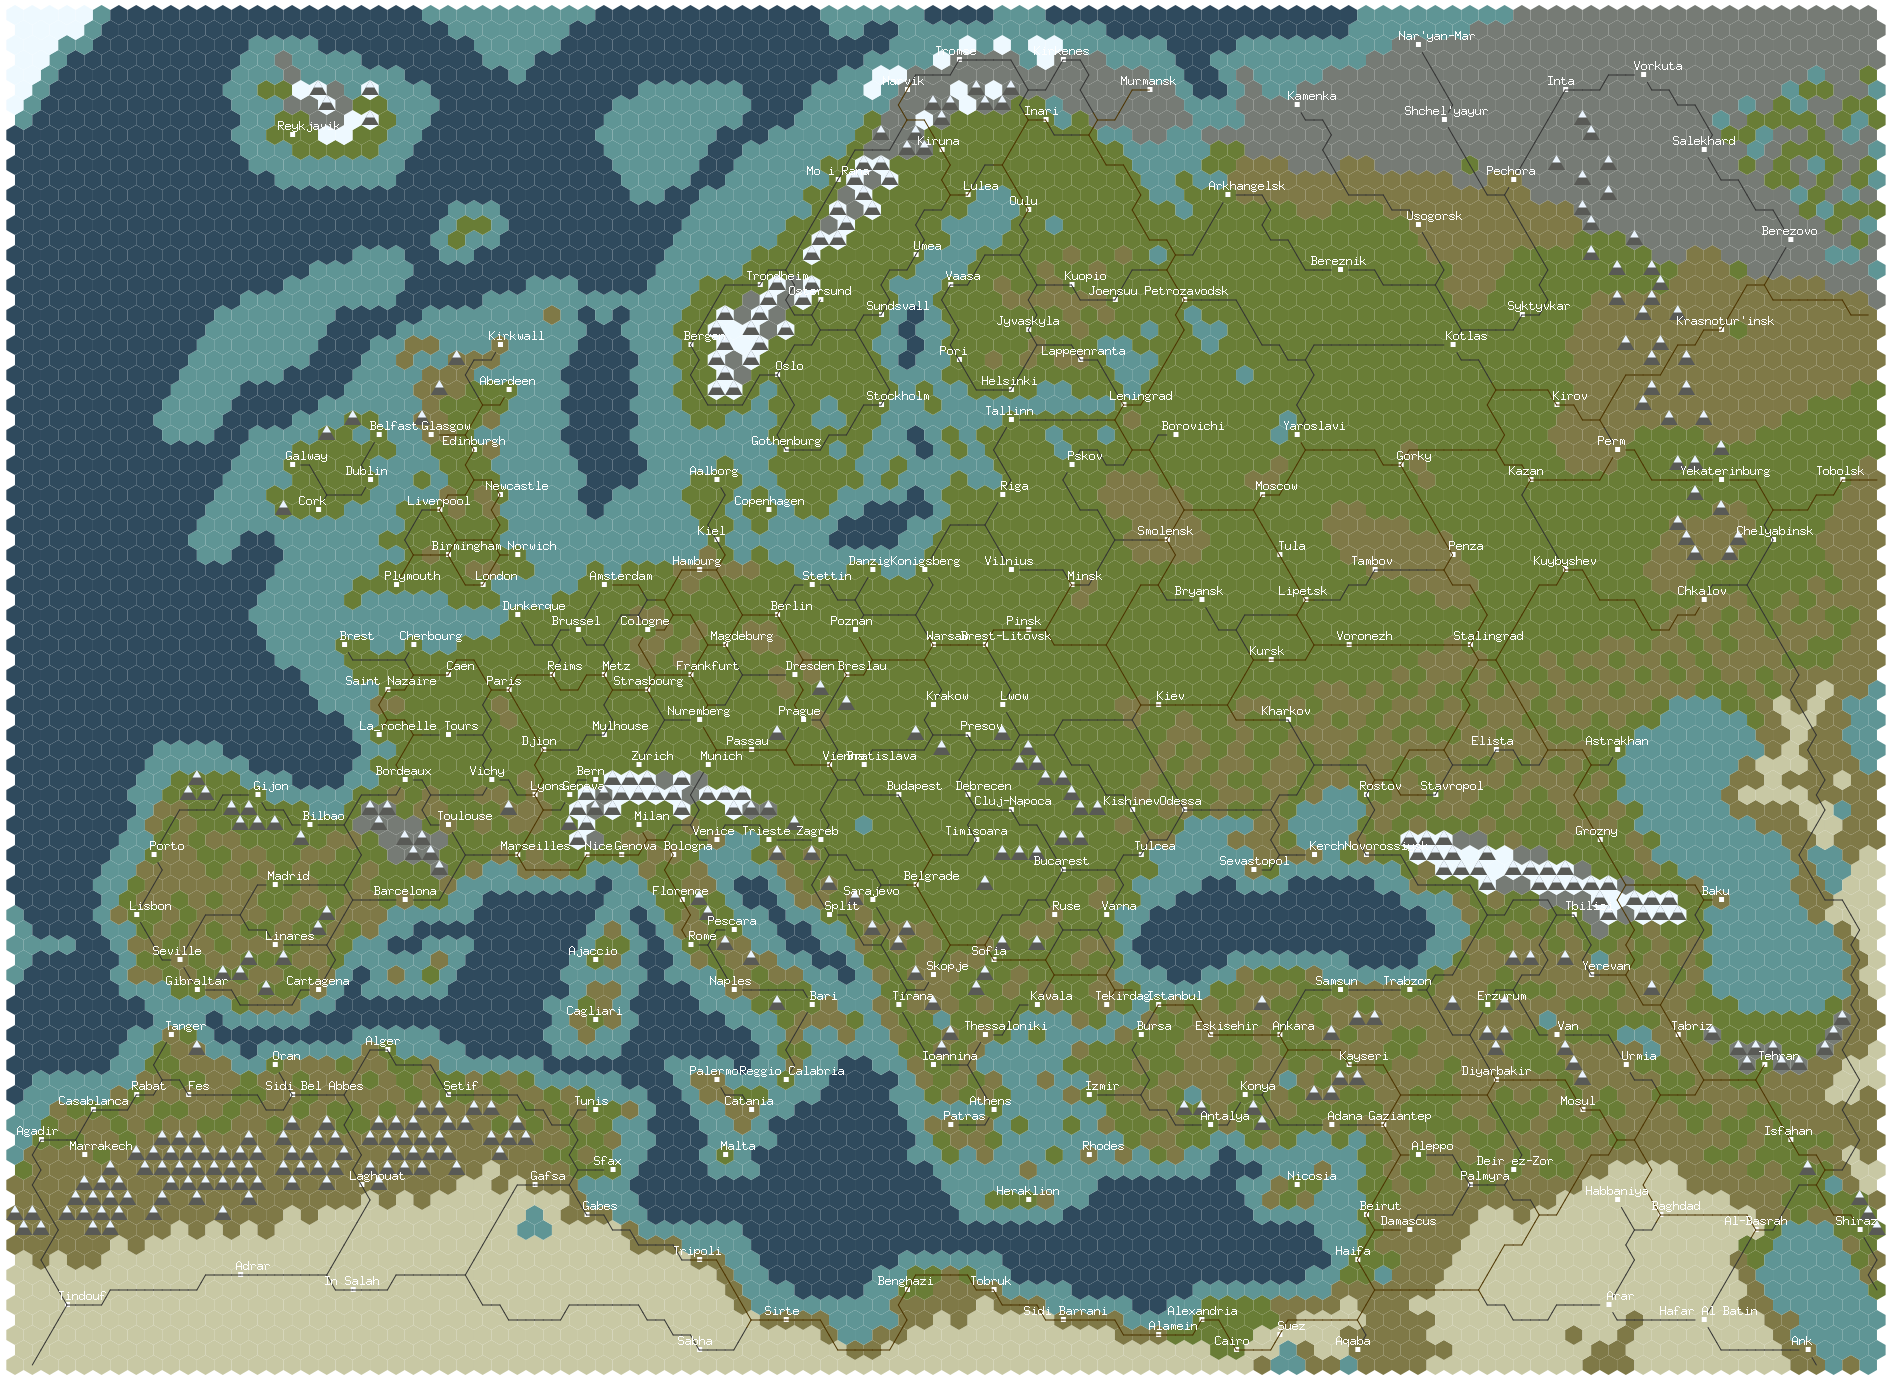
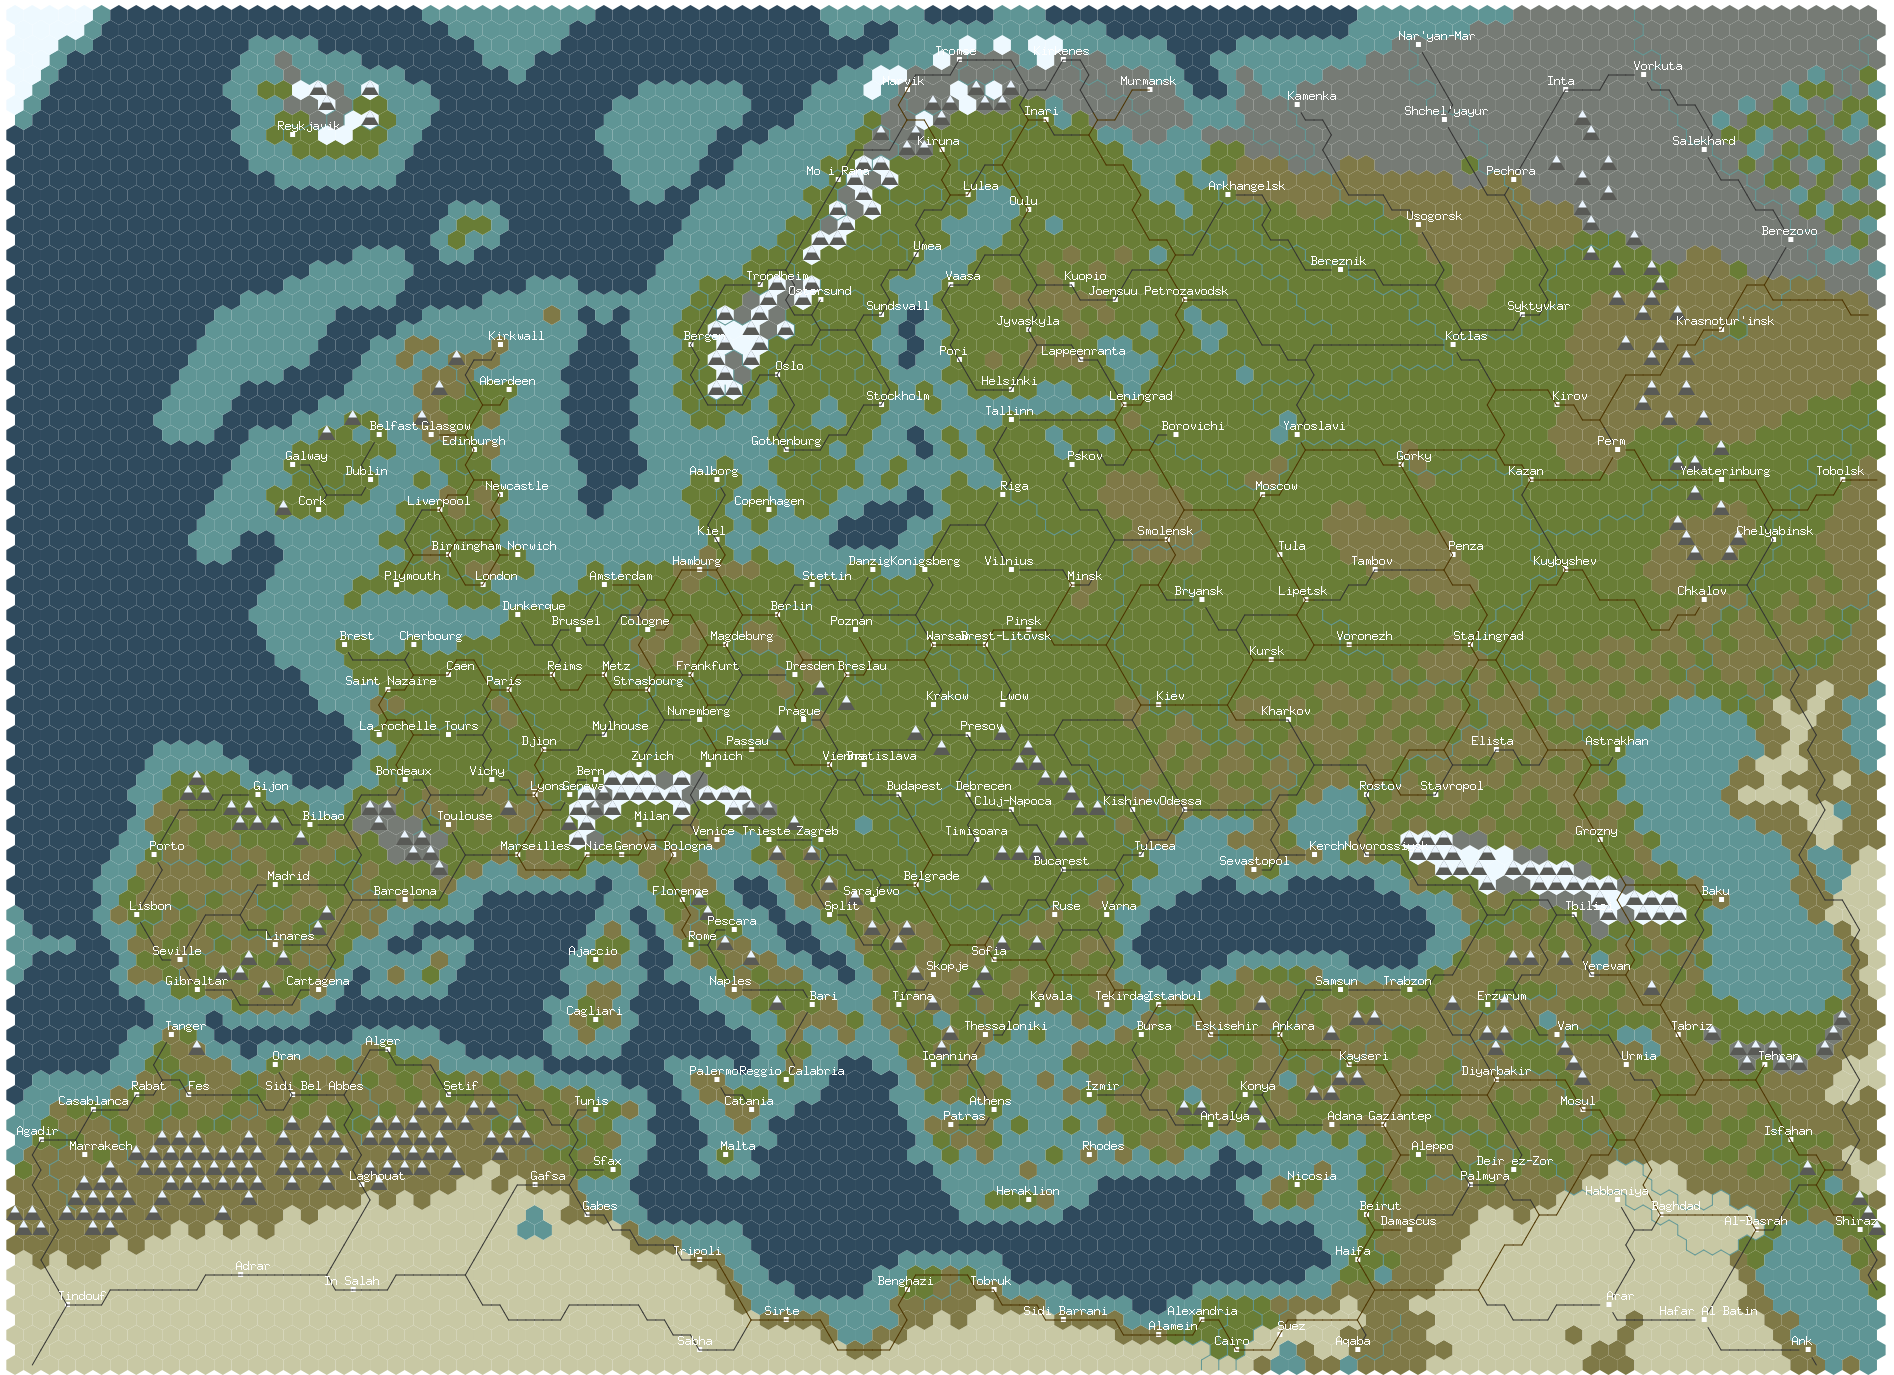
Draw rivers

diff --git a/main.go b/main.go
@@ -90,9 +90,59 @@ func drawTiles(dc *gg.Context, mapData *fileio.Civ5MapData, mapHeight int, mapWi
 
 			// Draw cities
 			if mapData.MapTileImprovements[i][j].CityId != -1 {
-				dc.DrawRectangle(x-2.0, y-2.0, radius/2, radius/2)
+				dc.DrawRectangle(x-(radius/5), y-(radius/5), radius/2, radius/2)
 				dc.SetRGB255(255, 255, 255)
 				dc.Fill()
+			}
+		}
+	}
+}
+
+func drawRivers(dc *gg.Context, mapData *fileio.Civ5MapData, mapHeight int, mapWidth int) {
+	for i := 0; i < mapHeight; i++ {
+		for j := 0; j < mapWidth; j++ {
+			x, y := getImagePosition(i, j)
+			dc.SetRGB255(95, 150, 148)
+
+			riverData := mapData.MapTiles[i][j].RiverData
+			isRiverSouthwest := ((riverData >> 2) & 1) != 0
+			isRiverSoutheast := ((riverData >> 1) & 1) != 0
+			isRiverEast := (riverData & 1) != 0
+
+			// Southwest river
+			if isRiverSouthwest {
+				angleSW1 := (math.Pi / 6) + float64(3)*(math.Pi/3)
+				angleSW2 := (math.Pi / 6) + float64(4)*(math.Pi/3)
+				x1 := x + radius*math.Cos(angleSW1)
+				y1 := y + radius*math.Sin(angleSW1)
+				x2 := x + radius*math.Cos(angleSW2)
+				y2 := y + radius*math.Sin(angleSW2)
+				dc.DrawLine(x1, y1, x2, y2)
+				dc.Stroke()
+			}
+
+			// Southeast river
+			if isRiverSoutheast {
+				angleSE1 := (math.Pi / 6) + float64(4)*(math.Pi/3)
+				angleSE2 := (math.Pi / 6) + float64(5)*(math.Pi/3)
+				x1 := x + radius*math.Cos(angleSE1)
+				y1 := y + radius*math.Sin(angleSE1)
+				x2 := x + radius*math.Cos(angleSE2)
+				y2 := y + radius*math.Sin(angleSE2)
+				dc.DrawLine(x1, y1, x2, y2)
+				dc.Stroke()
+			}
+
+			// East river
+			if isRiverEast {
+				angleE1 := (math.Pi / 6) + float64(5)*(math.Pi/3)
+				angleE2 := (math.Pi / 6) + float64(6)*(math.Pi/3)
+				x1 := x + radius*math.Cos(angleE1)
+				y1 := y + radius*math.Sin(angleE1)
+				x2 := x + radius*math.Cos(angleE2)
+				y2 := y + radius*math.Sin(angleE2)
+				dc.DrawLine(x1, y1, x2, y2)
+				dc.Stroke()
 			}
 		}
 	}
@@ -130,10 +180,10 @@ func drawRoads(dc *gg.Context, mapData *fileio.Civ5MapData, mapHeight int, mapWi
 						}
 
 						// Draw only up to midpoint, which would be the tile border
-						midX := (x1 + x2) / 2.0
-						midY := (y1 + y2) / 2.0
+						borderX := (x1 + x2) / 2.0
+						borderY := (y1 + y2) / 2.0
 
-						dc.DrawLine(x1, y1, midX, midY)
+						dc.DrawLine(x1, y1, borderX, borderY)
 						dc.Stroke()
 					}
 				}
@@ -154,6 +204,7 @@ func drawMap(mapData *fileio.Civ5MapData, outputFilename string) {
 	dc.InvertY()
 
 	drawTiles(dc, mapData, mapHeight, mapWidth)
+	drawRivers(dc, mapData, mapHeight, mapWidth)
 	drawRoads(dc, mapData, mapHeight, mapWidth)
 
 	// Draw city names on top of hexes

diff --git a/fileio/civ5map.go b/fileio/civ5map.go
@@ -97,6 +97,7 @@ type Civ5MapTileImprovement struct {
 type Civ5MapData struct {
 	MapHeader           Civ5MapHeader
 	TerrainList         []string
+	FeatureTerrainList  []string
 	MapTiles            [][]*Civ5MapTile
 	MapTileImprovements [][]*Civ5MapTileImprovement
 }
@@ -259,7 +260,8 @@ func ReadCiv5MapFile(filename string) (*Civ5MapData, error) {
 	if err := binary.Read(streamReader, binary.LittleEndian, &featureTerrainDataBytes); err != nil {
 		return nil, err
 	}
-	fmt.Println("Feature terrain data: ", byteArrayToStringArray(featureTerrainDataBytes))
+	featureTerrainList := byteArrayToStringArray(featureTerrainDataBytes)
+	fmt.Println("Feature terrain data: ", featureTerrainList)
 
 	featureWonderDataBytes := make([]byte, mapHeader.FeatureWonderDataSize)
 	if err := binary.Read(streamReader, binary.LittleEndian, &featureWonderDataBytes); err != nil {
@@ -459,9 +461,20 @@ func ReadCiv5MapFile(filename string) (*Civ5MapData, error) {
 		}
 	}
 
+	cityOwnerMap := make(map[int][]string)
+	for i := 0; i < len(cityData); i++ {
+		owner := cityData[i].Owner
+		if _, ok := cityOwnerMap[owner]; !ok {
+			cityOwnerMap[owner] = make([]string, 0)
+		}
+		cityOwnerMap[owner] = append(cityOwnerMap[owner], cityData[i].Name)
+	}
+	fmt.Println("City owner map:", cityOwnerMap)
+
 	mapData := &Civ5MapData{
 		MapHeader:           mapHeader,
 		TerrainList:         terrainList,
+		FeatureTerrainList: featureTerrainList,
 		MapTiles:            mapTiles,
 		MapTileImprovements: mapTileImprovementData,
 	}
